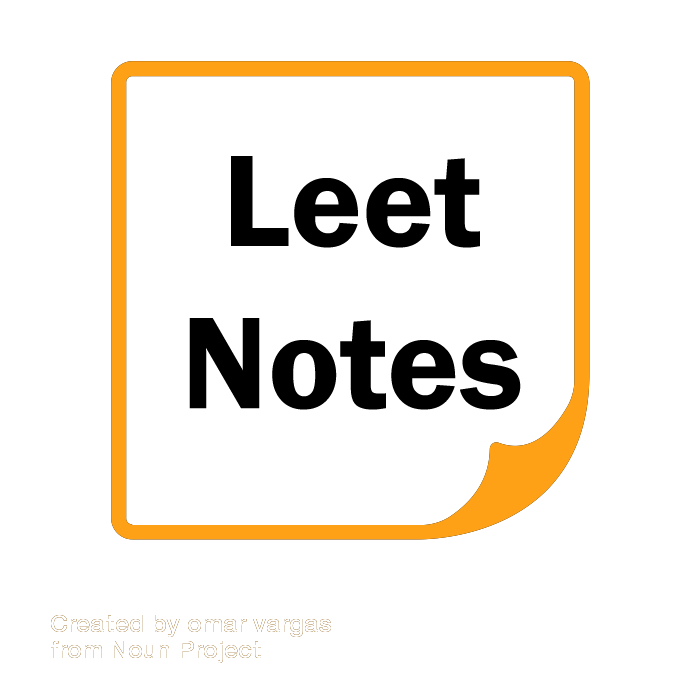
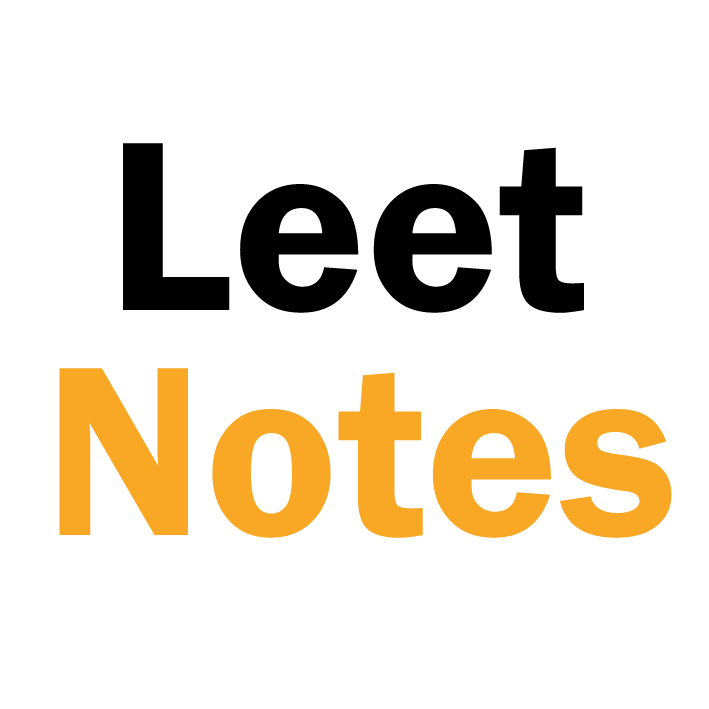
option to star question when saving to Notion

diff --git a/popup.html b/popup.html
@@ -4,8 +4,7 @@
     <link rel="stylesheet" href="popup.css" />
   </head>
   <body>
-    <h1>Leetnotes</h1>
-
+    <h1>Leet<span style="color: rgb(255,161,22)">Notes</span></h1>
     <!-- Authentication mode -->
     <div id="notion-mode" hidden>
       <form id="notion-info">
@@ -17,82 +16,13 @@
 
     <!-- non-Leetcode page mode-->
     <div id="nonleetcode-container" hidden>
-      <p>go to <b>Leetcode problem page</b> <br> to add notes</p>
+      <p>go to <b>LeetCode problem page</b> <br> to add notes</p>
     </div>
 
     <!-- Leetcode page mode -->
     <div id="leetcode-mode">
       <div class="loading-container">
-        <svg
-          xmlns="http://www.w3.org/2000/svg"
-          xmlns:xlink="http://www.w3.org/1999/xlink"
-          style="margin: auto; background: #fafafa; display: block"
-          width="144px"
-          height="144px"
-          viewBox="0 0 100 100"
-          preserveAspectRatio="xMidYMid"
-        >
-          <g transform="translate(20 50)">
-            <circle cx="0" cy="0" r="6" fill="#9a8f97">
-              <animateTransform
-                attributeName="transform"
-                type="scale"
-                begin="-0.4807692307692307s"
-                calcMode="spline"
-                keySplines="0.3 0 0.7 1;0.3 0 0.7 1"
-                values="0;1;0"
-                keyTimes="0;0.5;1"
-                dur="1.282051282051282s"
-                repeatCount="indefinite"
-              ></animateTransform>
-            </circle>
-          </g>
-          <g transform="translate(40 50)">
-            <circle cx="0" cy="0" r="6" fill="#c3baba">
-              <animateTransform
-                attributeName="transform"
-                type="scale"
-                begin="-0.3205128205128205s"
-                calcMode="spline"
-                keySplines="0.3 0 0.7 1;0.3 0 0.7 1"
-                values="0;1;0"
-                keyTimes="0;0.5;1"
-                dur="1.282051282051282s"
-                repeatCount="indefinite"
-              ></animateTransform>
-            </circle>
-          </g>
-          <g transform="translate(60 50)">
-            <circle cx="0" cy="0" r="6" fill="#e9e3e6">
-              <animateTransform
-                attributeName="transform"
-                type="scale"
-                begin="-0.16025641025641024s"
-                calcMode="spline"
-                keySplines="0.3 0 0.7 1;0.3 0 0.7 1"
-                values="0;1;0"
-                keyTimes="0;0.5;1"
-                dur="1.282051282051282s"
-                repeatCount="indefinite"
-              ></animateTransform>
-            </circle>
-          </g>
-          <g transform="translate(80 50)">
-            <circle cx="0" cy="0" r="6" fill="#b2b2b2">
-              <animateTransform
-                attributeName="transform"
-                type="scale"
-                begin="0s"
-                calcMode="spline"
-                keySplines="0.3 0 0.7 1;0.3 0 0.7 1"
-                values="0;1;0"
-                keyTimes="0;0.5;1"
-                dur="1.282051282051282s"
-                repeatCount="indefinite"
-              ></animateTransform>
-            </circle>
-          </g>
-        </svg>
+        <img src="assets/loading.svg"/>
         <h3>loading... please wait</h3>
       </div>
       <div class="loaded-container">
@@ -115,11 +45,16 @@
         </div>
         <div id="notes-submit-container">
           <div class="notes">
-            <p>notes are loaded from Leetcode</p>
+            <div class="notes-text">
+              <p>notes are loaded from Leetcode</p>
+            </div>
+            <div class="notes-star-container">
+              <svg fill="rgb(110, 110, 110)" xmlns="http://www.w3.org/2000/svg" width="24" height="24" viewBox="0 0 24 24"><path class="notes-star" d="M12 .587l3.668 7.568 8.332 1.151-6.064 5.828 1.48 8.279-7.416-3.967-7.417 3.967 1.481-8.279-6.064-5.828 8.332-1.151z"/></svg>
+            </div>
           </div>
           <button id="submit-btn" type="submit" >add to Notion</button>
         </div>
-        <div class id="submit-response-container" hidden>
+        <div id="submit-response-container" hidden>
         </div>
       </div>
     </div>

diff --git a/popup.js b/popup.js
@@ -98,6 +98,8 @@ function getNotes() {
 async function getRequestBody(databaseId) {
     const confidence = document.getElementById("confidence-dropdown").value;
     const date = document.getElementById("date-input").value;
+    const isStarred = document.getElementsByClassName("notes-star")[0].classList.contains("selected")
+    const multiSelectContent = isStarred ? [{"id": "f77c7460-3a27-4d3a-be24-3a2bf5485f29"}] : [] ;
     let reqBody = await getNotes().then(res => {
 
         const obj = {
@@ -134,7 +136,7 @@ async function getRequestBody(databaseId) {
                 "Tags": {
                     "id": "zvmb",
                     "type": "multi_select",
-                    "multi_select": []
+                    "multi_select": multiSelectContent
                 },
                 "Notes": {
                     "id": "~tkb",
@@ -197,7 +199,6 @@ async function submitNotes(event) {
         responseDiv.appendChild(node);
         responseDiv.hidden = false;
         document.getElementById("notes-submit-container").hidden = true;
-
         console.log("succesfully sent postReq to bg", res.data, res.data.status);
     }
 
@@ -213,3 +214,14 @@ chrome.storage.local.get("isSaved", (res) => {
     document.getElementById("notion-mode").hidden = isSaved;
     document.getElementById("leetcode-mode").hidden = !isSaved;
 })
+
+function toggleStar(event) {
+    let isSelected = event.target.classList.toggle("selected");
+    if (isSelected) {
+        event.target.setAttribute("fill", "rgb(255,161,22)");
+    } else {
+        event.target.setAttribute("fill", "rgb(110, 110, 110)");
+    }
+}
+
+document.getElementsByClassName("notes-star")[0].addEventListener("click", toggleStar);

diff --git a/popup.css b/popup.css
@@ -1,4 +1,5 @@
 body {
+  position: relative;
   height: 300px;
   width: 300px;
   text-align: center;
@@ -100,7 +101,26 @@ button {
   text-align: center;
   font-weight: 200;
   margin: 8px 0;
+  display: flex;
+  flex-direction: row;
 }
+.notes-text{
+  height: 100%;
+  vertical-align: middle;
+  margin: 0 10px;
+}
+.notes-star-container{
+  position: relative;
+  vertical-align: middle;
+  margin: 0 8px;
+}
+.notes-star{
+  position: absolute;
+  top:0;
+  bottom: 0;
+  margin: auto;
+}
+
 
 #submit-btn:hover {
   background-color: rgb(63, 63, 63);
